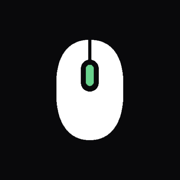
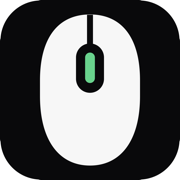
fix(sw): keep the licensed-route cache bypasses
The bypass list was cut down to /api/ because nothing else it named
exists on dev. Those routes do exist on main: _routes.json sends
/control-app* and /protected-assets/* through functions/_middleware.js,
which validates a session cookie per request and answers no-store.
Caching either one would let a revoked licence keep working, so the
entries have to survive the merge even though they are inert here.

- Restore /control-app, /protected-assets/, and /control(.html)
- Refuse to store any response carrying Cache-Control: no-store, so a
  future licensed route is covered without a matching regex
- Take main's designed icons instead of the generated ones, avoiding a
  binary conflict at merge, and restore the dark favicon links
- Drop the social card from the precache list; scrapers fetch it server
  side and the page never requests it
- Cover the licensed bypasses and ordinary caching in the tests

diff --git a/build/pwa-vite-plugin.ts b/build/pwa-vite-plugin.ts
@@ -11,7 +11,7 @@ const STATIC_PRECACHE = [
   "/favicon-32.png",
   "/apple-touch-icon.png",
   "/icon-512.png",
-  "/og-image.png",
+  "/favicon-dark.svg",
 ];
 
 /** Pages whose emitted markup is scanned for the hashed assets to precache. */
@@ -23,8 +23,18 @@ export const PRECACHE_PAGES: { file: string; url: string }[] = [
   { file: "contribute.html", url: "/contribute.html" },
 ];
 
-/** Same-origin paths the worker must never serve from its own cache. */
-export const BYPASS = [/^\/api\//];
+/**
+ * Same-origin paths the worker must never serve from its own cache. The
+ * control app and its bundle are validated per request by the Cloudflare
+ * middleware on main, so caching either would let a revoked license keep
+ * working. They do not exist on dev; the entries cost nothing there.
+ */
+export const BYPASS = [
+  /^\/api\//,
+  /^\/control-app/,
+  /^\/protected-assets\//,
+  /^\/control(?:\.html)?$/,
+];
 
 function renderServiceWorker(version: string, precache: string[]): string {
   return `// Generated by build/pwa-vite-plugin.ts. Do not edit by hand.
@@ -66,6 +76,11 @@ self.addEventListener("activate", (event) => {
  */
 const MATCH = { ignoreVary: true };
 
+/** The licensed routes answer with "Cache-Control: private, no-store". */
+function storable(response) {
+  return response.ok && !(response.headers.get("Cache-Control") ?? "").includes("no-store");
+}
+
 /** Serves the cached copy immediately and refreshes it in the background. */
 async function staleWhileRevalidate(request, cacheName) {
   const cache = await caches.open(cacheName);
@@ -84,7 +99,7 @@ async function networkFirst(request) {
   const cache = await caches.open(CACHE);
   try {
     const response = await fetch(request);
-    if (response.ok) cache.put(request, response.clone());
+    if (storable(response)) cache.put(request, response.clone());
     return response;
   } catch (error) {
     const cached = await cache.match(request, MATCH) ?? await cache.match("/", MATCH);
@@ -102,7 +117,7 @@ async function cacheFirst(request) {
   if (cached) return cached;
 
   const response = await fetch(request);
-  if (response.ok) {
+  if (storable(response)) {
     const cache = await caches.open(CACHE);
     await cache.put(request, response.clone());
   }

diff --git a/src/pwa-precache.test.ts b/src/pwa-precache.test.ts
@@ -23,13 +23,27 @@ test("every other page is precached at its own path", () => {
   }
 });
 
-test("vote and request endpoints bypass the cache", () => {
-  const bypassed = (path: string): boolean => BYPASS.some((pattern) => pattern.test(path));
+const bypassed = (path: string): boolean => BYPASS.some((pattern) => pattern.test(path));
 
+test("vote and request endpoints bypass the cache", () => {
   assert.equal(bypassed("/api/mouse-vote"), true);
   assert.equal(bypassed("/api/voting-config"), true);
+});
+
+// These live on main, behind the licence middleware. Caching either one would
+// let a revoked session keep working, so the bypass has to survive a merge.
+test("the licensed control app and its bundle bypass the cache", () => {
+  assert.equal(bypassed("/control-app.html"), true);
+  assert.equal(bypassed("/control-app"), true);
+  assert.equal(bypassed("/protected-assets/control-abc123.js"), true);
+  assert.equal(bypassed("/control"), true);
+  assert.equal(bypassed("/control.html"), true);
+});
+
+test("ordinary pages and assets are still cached", () => {
   assert.equal(bypassed("/"), false);
   assert.equal(bypassed("/supported.html"), false);
   assert.equal(bypassed("/assets/main-abc123.js"), false);
   assert.equal(bypassed("/devices/razer-viper.webp"), false);
+  assert.equal(bypassed("/contributors.html"), false);
 });

diff --git a/contribute.html b/contribute.html
@@ -23,6 +23,7 @@
     <title>OpenMouse | Contribution Guide</title>
     <link rel="icon" href="/favicon.ico" sizes="32x32" />
     <link rel="icon" type="image/png" href="/favicon-32.png" sizes="32x32" />
+    <link rel="icon" type="image/svg+xml" href="/favicon-dark.svg" sizes="any" />
     <link rel="apple-touch-icon" href="/apple-touch-icon.png" />
     <link rel="manifest" href="/manifest.webmanifest" />
     <link rel="preconnect" href="https://fonts.googleapis.com" />

diff --git a/check.html b/check.html
@@ -6,6 +6,7 @@
     <meta name="theme-color" content="#09090b" />
     <link rel="icon" href="/favicon.ico" sizes="32x32" />
     <link rel="icon" type="image/png" href="/favicon-32.png" sizes="32x32" />
+    <link rel="icon" type="image/svg+xml" href="/favicon-dark.svg" sizes="any" />
     <link rel="apple-touch-icon" href="/apple-touch-icon.png" />
     <link rel="manifest" href="/manifest.webmanifest" />
     <link rel="preconnect" href="https://fonts.googleapis.com" />
